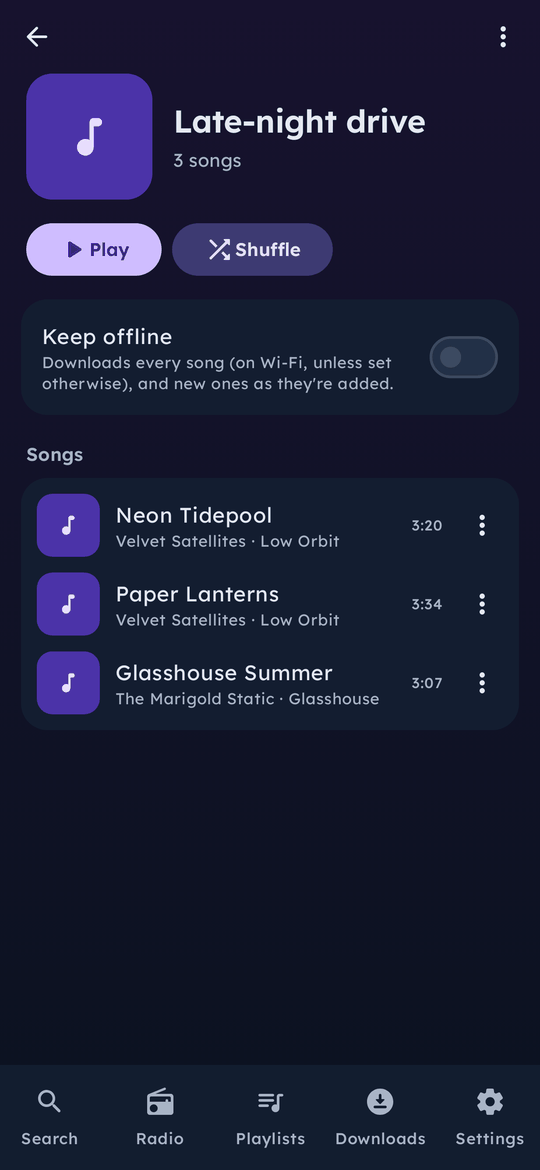
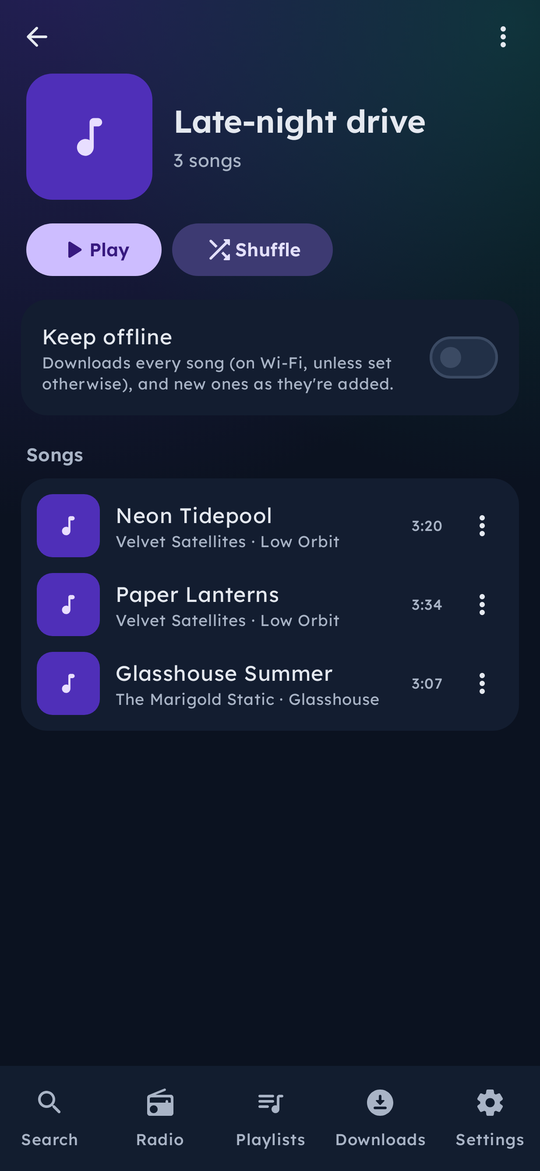
1.35.0: new screenshots of the phone app, web player and desktop app; README and F-Droid
Claude-Session: https://claude.ai/code/session_01DK8DfoEzdUGDkUf9GQ4eLZ

Changed region(s): [[0.563, 0.0, 1.0, 0.1538], [0.0, 0.0, 0.5333, 0.1231], [0.1185, 0.4308, 0.1481, 0.4615]]

diff --git a/README.md b/README.md
@@ -23,7 +23,7 @@ separately for Wi-Fi, mobile data and **satellite**, and anything can be downloa
 | **The server** (`server/`, web player in `web/`) | Your own streaming service in Docker or Podman: accounts (local or single sign-on such as Authentik), sources shared by the admins or added by each person, playlists and history per person, personal radio stations, Listen, Wrapped, a web player, and speakers as places to play. See [server/README.md](server/README.md). | `ghcr.io/603madison/superawesomemagicalmusic` |
 | **SuperAwesomeMagicalMusic** (`connect/`) | The Android app for the server: your library, radio and playlists; downloads; Android Auto; your devices working together; MusicCast and Sonos speakers at home; Listen and Now Playing; Wrapped. | `SuperAwesomeMagicalMusic-vX.Y.Z.apk`, or F-Droid |
 | **SuperAwesomeMagicalMusic Mini** (`mini/`) | The server's app for Android flip phones, made for the keypad, signed in with a short code instead of a password. | `SuperAwesomeMagicalMusic-Mini-vX.Y.Z.apk`, or F-Droid |
-| **SuperAwesomeMagicalMusic for Linux** (`desktop/`) | A native desktop app for the server (GTK 4, libadwaita, GStreamer) for Ubuntu 24.04+ and Fedora 40+. See [desktop/README.md](desktop/README.md). | `…-Desktop-vX.Y.Z-amd64.deb` / `-x86_64.rpm` |
+| **SuperAwesomeMagicalMusic for Linux** (`desktop/`) | A native desktop app for the server (GTK 4, libadwaita, GStreamer) with what the web player has: Now playing with lyrics, your devices (play here or anywhere), playlists (import, share), Radio, History, Wrapped, Preferences and Admin. For Ubuntu 24.04+ and Fedora 40+. See [desktop/README.md](desktop/README.md). | `…-Desktop-vX.Y.Z-amd64.deb` / `-x86_64.rpm` |
 | **SuperAwesomeMagicalMusic Standalone** (`app/`) | The original Android app that works on its own, with no server: it talks to Jellyfin, YouTube Music, SiriusXM, Lidarr and Nextcloud itself. (Called Lite before 1.30.1.) | `SuperAwesomeMagicalMusic-Standalone-vX.Y.Z.apk`, or F-Droid |
 | **The tuner** (`tuner/`) | Local FM and HD Radio for the server, like an HDHomeRun for the radio: RTL-SDR dongles on a Raspberry Pi, in a container. See [tuner/README.md](tuner/README.md). | `ghcr.io/603madison/superawesomemagicalmusic-tuner` |
 | `core/`, `nowplaying/` | The music services as plain Kotlin, shared by the apps and the server; Now Playing as an Android library another app can host. | |
@@ -55,18 +55,32 @@ song (the line being sung is big and bright; click any line to jump there).
 | ![Now Playing's Song view](docs/screenshots/web-now-playing.jpg) | ![Search with a top result, songs and albums](docs/screenshots/web-search.jpg) |
 | **An artist's page** | **The web player on a phone** |
 | ![An artist's page with their popular songs](docs/screenshots/web-artist.jpg) | <img src="docs/screenshots/web-phone.jpg" alt="Now Playing on a phone, with its own controls" width="300"> |
+| **Your playlists, shared ones included** | |
+| ![The Playlists page with a cover for each playlist](docs/screenshots/web-playlists.jpg) | |
 
 The SuperAwesomeMagicalMusic app (for the server), in the same look as the other apps (Lexend,
-rounded cards over a soft gradient, light and dark): an artist's page, controlling the web player
-from the phone (devices work together, like Spotify Connect, and MusicCast and Sonos speakers join them),
-favourite stations at the top of Radio, and a playlist in the dark theme.
+rounded cards over a soft gradient, light and dark): Search with your Wrapped, an artist's page,
+controlling the web player from the phone (devices work together, like Spotify Connect, and
+MusicCast and Sonos speakers join them), favourite stations at the top of Radio, a playlist in the
+dark theme, and your year so far.
 
 <p>
+  <img src="docs/screenshots/app-search.png" alt="The app's Search tab, with Wrapped at the top and the web player playing" width="200">
   <img src="docs/screenshots/app-artist.png" alt="The app's artist page" width="200">
   <img src="docs/screenshots/app-devices.png" alt="The app controlling the web player, with the devices to play on" width="200">
   <img src="docs/screenshots/app-radio.png" alt="Favourite stations at the top of the app's Radio tab" width="200">
   <img src="docs/screenshots/app-playlist-dark.png" alt="A playlist in the dark theme" width="200">
+  <img src="docs/screenshots/app-wrapped.png" alt="Wrapped in the app: minutes, top songs and top artists" width="200">
 </p>
+
+The Linux desktop app has what the web player has, natively (GTK 4 and libadwaita): Now playing
+with its lyrics following the song, a playlist shared with two people (each song says who added
+it), Radio with your own stations and favourites, and Wrapped.
+
+| | |
+| --- | --- |
+| ![The desktop app's Now playing, with lyrics](docs/screenshots/desktop-now-playing-lyrics.png) | ![A shared playlist in the desktop app](docs/screenshots/desktop-playlist.png) |
+| ![The desktop app's Radio: your own stations and favourites](docs/screenshots/desktop-radio.png) | ![Wrapped in the desktop app](docs/screenshots/desktop-wrapped.png) |
 
 The screenshots use a made-up demo library (Velvet Satellites aren't a real band, lol), so the covers
 are generated.

diff --git a/release-notes/v1.35.0.md b/release-notes/v1.35.0.md
@@ -1,0 +1,36 @@
+## The desktop app catches up with the web player
+
+The Linux desktop app now has what the web player has:
+
+- **Now playing** as its own page: the cover large and the page washed in its colours, the
+  **lyrics** following the song (click a line to play from there), **Up next** (play from, move,
+  remove, clear), and on live radio the song on the channel and what it played before. Full screen
+  from its corner.
+- **Your devices:** the desktop app is one of them now, like the web player and the phone app. The
+  devices button lists your web players, phones and speakers (Sonos, Music Assistant) with what's
+  on each: play or pause them, or move the music there or here. While another device plays, the
+  player bar controls it, and **Play here** brings it back.
+- **Playlists:** import (a link, a typed or pasted list, a CSV file, or a playlist on your Subsonic
+  server), export as CSV, and **share** one with people on your server, or leave one shared with
+  you. Each song says who added it.
+- **Radio:** your own stations, favourites, every SiriusXM channel, Pandora artist stations, and
+  local radio (popular in your country, near you, or by name, your FM tuner's stations included).
+- **History** and **Wrapped**, its story included.
+- **Song details** in every song's ⋯ menu and on Now playing: where it's from, the copy your server
+  picked, what GStreamer decodes and the volume levelling applied.
+- **Even out volume** (Preferences): your library's loudness values where it has them, else gentle
+  levelling as it plays.
+- **Preferences** as the web player's Settings: appearance, quality, the DJ's voice, your sources,
+  your name and password, where you're signed in, and signing in a flip phone with a code.
+- **Admin** for admins: people, shared sources and the server's settings.
+
+## Phone app
+
+- **No more purple frame round the cover** on Now Playing. The cover was drawn at a fixed size
+  inside a box that stretched to the screen's width, so the box's colour showed round it. It fills
+  the box now, on every screen.
+
+## Screenshots
+
+New screenshots on GitHub and in the F-Droid repository: the phone app, the web player, the
+desktop app and the Standalone app.

diff --git a/desktop/README.md b/desktop/README.md
@@ -4,6 +4,8 @@ The desktop app for your SuperAwesomeMagicalMusic server: native, written in Rus
 libadwaita (GNOME's own toolkit), playing through GStreamer, the system's media framework. No web
 view, no Chromium: a 5 MB program that starts at once.
 
+![Now playing in the desktop app, its lyrics following the song](../docs/screenshots/desktop-now-playing-lyrics.png)
+
 - **Sign in** with your server's address, then your password or your server's single sign-on (it
   opens your browser, which hands the sign-in back to the app).
 - **Search** artists, albums and songs from your library and every service on your server, with
@@ -50,6 +52,14 @@ view, no Chromium: a 5 MB program that starts at once.
 - **Admin**, for admins: people (add, make admin, turn off, set a password, sign out, delete), the
   sources shared with everyone, and the server's settings, single sign-on included.
 - Shortcuts: Ctrl+P play/pause, Ctrl+→ next, Ctrl+← previous, Ctrl+, preferences, Ctrl+Q quit.
+
+| | |
+| --- | --- |
+| ![Up next, and playing on another device](../docs/screenshots/desktop-now-playing-queue.png) | ![A shared playlist](../docs/screenshots/desktop-playlist.png) |
+| ![Radio: your own stations and favourites](../docs/screenshots/desktop-radio.png) | ![Live radio in Now playing](../docs/screenshots/desktop-now-playing-radio.png) |
+| ![Wrapped](../docs/screenshots/desktop-wrapped.png) | ![Wrapped's story](../docs/screenshots/desktop-wrapped-story.png) |
+| ![Song details](../docs/screenshots/desktop-song-info.png) | ![Preferences: your account and where you're signed in](../docs/screenshots/desktop-preferences.png) |
+| ![Controlling a phone from the desktop](../docs/screenshots/desktop-remote-control.png) | ![Admin: people, sources and settings](../docs/screenshots/desktop-admin.png) |
 
 ## Installing
 
